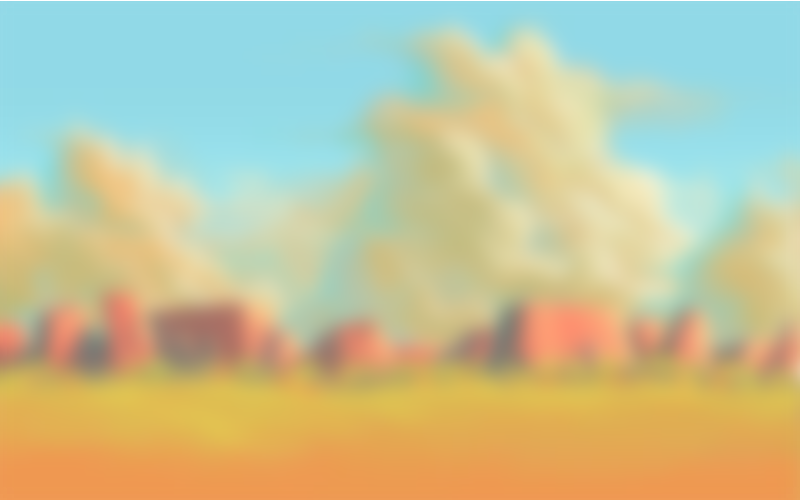
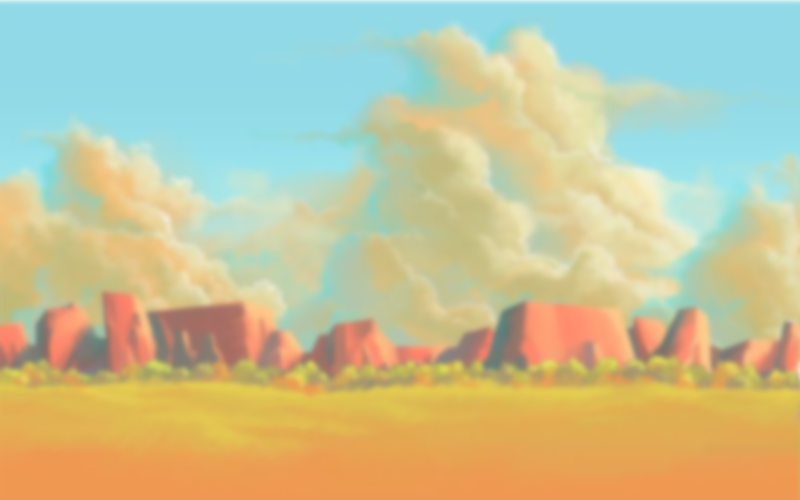
Obstacles Images complete

diff --git a/src/main/java/AgChSaJo/GUI/GameController.java b/src/main/java/AgChSaJo/GUI/GameController.java
@@ -34,7 +34,14 @@ public class GameController {
 
     private GraphicsContext gc;
     private Image background = new Image(getClass().getResourceAsStream("/images/CanvasBackground.png"));
+
     private Image player = new Image(getClass().getResourceAsStream("/images/kangaroo.png"));
+    private Image cactusRow = new Image(getClass().getResourceAsStream("/images/Obstacles/cactusRow.png"));
+    private Image mosquito = new Image(getClass().getResourceAsStream("/images/Obstacles/mosquito.png"));
+    private Image rock = new Image(getClass().getResourceAsStream("/images/Obstacles/rock.png"));
+    private Image seagull = new Image(getClass().getResourceAsStream("/images/Obstacles/seagull.png"));
+    private Image shrub = new Image(getClass().getResourceAsStream("/images/Obstacles/shrub.png"));
+    private Image tree = new Image(getClass().getResourceAsStream("/images/Obstacles/tree.png"));
     private double distanceFromBottom = 25;
 
 
@@ -122,22 +129,37 @@ public class GameController {
     private void animateObstacles(){
         Obstacle ob1 = ObstacleManager.obstacle1;
         Obstacle ob2 = ObstacleManager.obstacle2;
+        Image ob1Image, ob2Image;
+
 
 
         double x1 = ob1.getX();
         double y1 = canvas.getHeight()-ob1.getHeight()-ob1.getY()-distanceFromBottom;
-        gc.setFill(Color.GREEN);
-        gc.fillRect(x1,y1, ob1.getWidth(), ob1.getHeight());
+        //gc.setFill(Color.GREEN);
+        //gc.fillRect(x1,y1, ob1.getWidth(), ob1.getHeight());
+        gc.drawImage(findObstacleImage(ob1),x1,y1);
 
         if (ob2 !=null){
             double x2 = ob2.getX();
             double y2 = canvas.getHeight()-ob2.getHeight()-ob2.getY()-distanceFromBottom;
-            gc.setFill(Color.OLIVE);
-            gc.fillRect(x2,y2, ob2.getWidth(), ob2.getHeight());
+            //gc.setFill(Color.OLIVE);
+            //gc.fillRect(x2,y2, ob2.getWidth(), ob2.getHeight());
+            gc.drawImage(findObstacleImage(ob2),x2,y2);
         }
 
 
 
+    }
+    private Image findObstacleImage(Obstacle obstacle){
+        switch (obstacle.toString()){
+            case "CactusRow": return cactusRow;
+            case "Mosquito": return mosquito;
+            case "Rock": return rock;
+            case "Seagull": return seagull;
+            case "Shrub": return shrub;
+            case "Tree": return tree;
+            default: return tree;
+        }
     }
     void updateScoreView(){
         scoreView.setText(""+Board.getScore());

diff --git a/src/main/java/AgChSaJo/JumpOrDie/ObstacleManager.java b/src/main/java/AgChSaJo/JumpOrDie/ObstacleManager.java
@@ -24,35 +24,35 @@ public class ObstacleManager {
 
     /**
      *  This method generates an exact Kind of an Obstacle by choosing a random number.
-     *  If something is not working a Fence is created(default case).
+     *  If something is not working a Rock is created(default case).
      *
-     * @return new Fence(), new Tree(), new Hedge(), new BigHedge(), new Butterfly(), new Eagle()
+     * @return new Rock(), new Tree(), new Shrub(), new CactusRow(), new Mosquito(), new Seagull()
      */
     private static Obstacle generate(){
         Random r = new Random();
         int kind = r.nextInt(6);
         switch (kind){
             case 0:
-                log.debug("new Fence generated");
-                return new Fence();
+                log.debug("new Rock generated");
+                return new Rock();
             case 1:
                 log.debug("new Tree generated");
                 return new Tree();
             case 2:
-                log.debug("new Hedge generated");
-                return new Hedge();
+                log.debug("new Shrub generated");
+                return new Shrub();
             case 3:
-                log.debug("new BigHedge generated");
-                return new BigHedge();
+                log.debug("new CactusRow generated");
+                return new CactusRow();
             case 4:
-                log.debug("new Butterfly generated");
-                return new Butterfly();
+                log.debug("new Mosquito generated");
+                return new Mosquito();
             case 5:
-                log.debug("new Eagle generated");
-                return new Eagle();
+                log.debug("new Seagull generated");
+                return new Seagull();
             default:
-                log.warn("Should not happen - Fence generated");
-                return new Fence();
+                log.warn("Should not happen - Rock generated");
+                return new Rock();
         }
     }
 

diff --git a/src/main/java/AgChSaJo/GUI/ScoreController.java b/src/main/java/AgChSaJo/GUI/ScoreController.java
@@ -35,10 +35,13 @@ public class ScoreController {
         TableColumn<Player, String> nickname = new TableColumn<>("Nickname");
         nickname.setMinWidth(200);
         nickname.setCellValueFactory(new PropertyValueFactory<>("nickname"));
+        nickname.setSortable(false);
+
         // Score Column set up
         TableColumn<Player, Integer> score = new TableColumn<>("Score");
         score.setMinWidth(200);
         score.setCellValueFactory(new PropertyValueFactory<>("finalScore"));
+        score.setSortable(false);
 
         table.getColumns().add(nickname);
         table.getColumns().add(score);

diff --git a/src/test/java/AgChSaJo/JumpOrDie/BoardTest.java b/src/test/java/AgChSaJo/JumpOrDie/BoardTest.java
@@ -1,6 +1,6 @@
 package AgChSaJo.JumpOrDie;
 
-import AgChSaJo.JumpOrDie.Obstacles.Fence;
+import AgChSaJo.JumpOrDie.Obstacles.Rock;
 import AgChSaJo.JumpOrDie.Obstacles.Obstacle;
 import org.junit.Test;
 
@@ -52,7 +52,7 @@ public class BoardTest {
         /*Board.activePlayer = new Player();
          Board.activePlayer.jump();*/
         setUpTest();
-        Obstacle testObstacle = new Fence();
+        Obstacle testObstacle = new Rock();
         testObstacle.setX(100);
         testObstacle.setY(0);
 

diff --git a/src/main/java/AgChSaJo/JumpOrDie/Obstacles/Mosquito.java b/src/main/java/AgChSaJo/JumpOrDie/Obstacles/Mosquito.java
@@ -1,0 +1,14 @@
+package AgChSaJo.JumpOrDie.Obstacles;
+
+public class Mosquito extends Obstacle{
+
+    public Mosquito(){
+        setHeight(40);
+        setWidth(50);
+        setY(70);
+    }
+    @Override
+    public String toString() {
+        return "Mosquito";
+    }
+}

diff --git a/src/main/java/AgChSaJo/JumpOrDie/Obstacles/Seagull.java b/src/main/java/AgChSaJo/JumpOrDie/Obstacles/Seagull.java
@@ -1,0 +1,14 @@
+package AgChSaJo.JumpOrDie.Obstacles;
+
+public class Seagull extends Obstacle{
+
+    public Seagull(){
+        setHeight(45);
+        setWidth(99);
+        setY(100);
+    }
+    @Override
+    public String toString() {
+        return "Seagull";
+    }
+}

diff --git a/src/main/java/AgChSaJo/JumpOrDie/Obstacles/CactusRow.java b/src/main/java/AgChSaJo/JumpOrDie/Obstacles/CactusRow.java
@@ -1,0 +1,14 @@
+package AgChSaJo.JumpOrDie.Obstacles;
+
+public class CactusRow extends Obstacle {
+
+    public CactusRow(){
+        setHeight(50);
+        setWidth(100);
+    }
+
+    @Override
+    public String toString() {
+        return "CactusRow";
+    }
+}

diff --git a/src/main/java/AgChSaJo/JumpOrDie/Obstacles/Shrub.java b/src/main/java/AgChSaJo/JumpOrDie/Obstacles/Shrub.java
@@ -1,0 +1,14 @@
+package AgChSaJo.JumpOrDie.Obstacles;
+
+
+public class Shrub extends Obstacle {
+
+    public Shrub(){
+        setHeight(45);
+        setWidth(75);
+    }
+    @Override
+    public String toString() {
+        return "Shrub";
+    }
+}

diff --git a/src/main/java/AgChSaJo/JumpOrDie/Obstacles/Rock.java b/src/main/java/AgChSaJo/JumpOrDie/Obstacles/Rock.java
@@ -1,0 +1,14 @@
+package AgChSaJo.JumpOrDie.Obstacles;
+
+
+public class Rock extends Obstacle {
+
+    public Rock(){
+        setHeight(45);
+        setWidth(75);
+    }
+    @Override
+    public String toString() {
+        return "Rock";
+    }
+}

diff --git a/src/main/java/AgChSaJo/JumpOrDie/Obstacles/Tree.java b/src/main/java/AgChSaJo/JumpOrDie/Obstacles/Tree.java
@@ -4,6 +4,10 @@ public class Tree extends Obstacle {
 
     public Tree (){
         setHeight(100);
-        setWidth(30);
+        setWidth(34);
+    }
+    @Override
+    public String toString() {
+        return "Tree";
     }
 }
